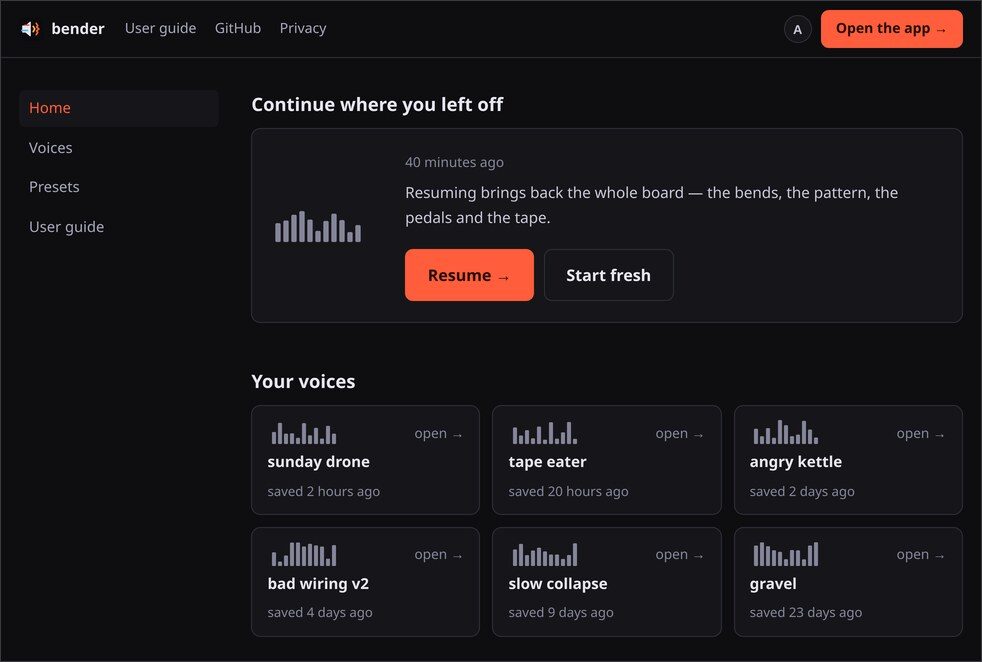
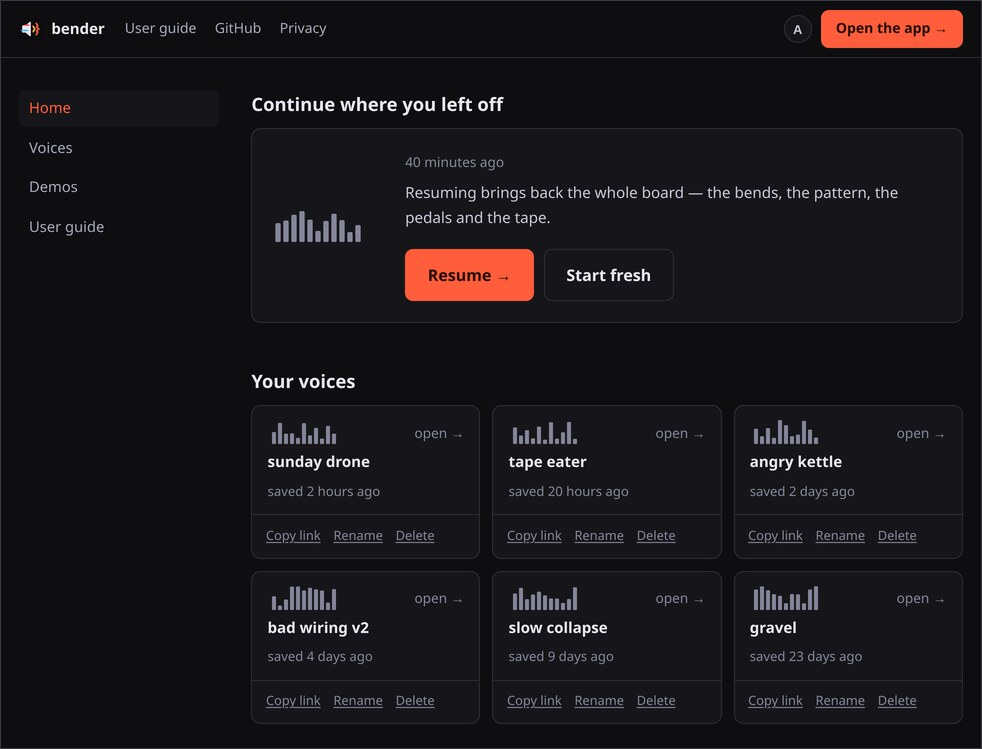
feat(home): copy, rename and delete a voice from the home page
Each voice card has a row under it: copy link, rename in place, and delete
after one question. Rename and delete go through editVoices, and renameVoice
refuses a name another voice already has. dashboard.jpg is retaken with the
rows, which makes it taller.

Ported from videoskillet; the shared regions match.

diff --git a/src/home/main.ts b/src/home/main.ts
@@ -11,6 +11,7 @@
 // string somebody typed, and `innerHTML` anywhere here would hand it to the
 // parser.
 import {
+  editVoices,
   fetchHome,
   signIn,
   signOut,
@@ -21,6 +22,12 @@ import {
   type HomeDoc,
 } from '../ui/cloud'
 import { sinceWords } from '../ui/relativeTime'
+import {
+  VOICE_NAME_MAX,
+  cleanVoiceName,
+  removeVoice,
+  renameVoice,
+} from '../ui/voiceModel'
 import { markFor } from './mark'
 import { appUrl, boardUrl, guideUrl, siteRoot } from './paths'
 
@@ -78,6 +85,144 @@ function card(query: string, name: string, says: string): HTMLElement {
   item.append(link)
   return item
 }
+
+// The link a copied card carries, whole, so it opens from a chat window.
+const shareLink = (query: string) =>
+  new URL(boardUrl(query), location.href).href
+
+// A voice has nothing stored beside it to clean up.
+const deleted = (_user: CloudUser, _voice: SavedVoice) => undefined
+
+// CROSS_REPO_SYNC(home-card-actions)
+// What a card's verbs need: who is signed in, and how to draw the home again
+// from the list an edit left on the account.
+interface CardEdits {
+  user: CloudUser
+  redraw: (voices: SavedVoice[]) => void
+}
+
+// Copy link, rename and delete, in a row under a saved card. The row sits
+// beside the card's link, since a button inside an <a> follows the link. A
+// rename or a delete runs through the same transaction the app saves with, and
+// the home redraws from the list that landed.
+function cardActions(voice: SavedVoice, edits: CardEdits): HTMLElement {
+  const row = el('div', 'cardActions')
+  const status = el('span', 'cardStatus')
+  status.setAttribute('role', 'status')
+
+  const act = (label: string, run: () => void) => {
+    const button = el('button', 'cardAct', label)
+    button.type = 'button'
+    button.addEventListener('click', run)
+    return button
+  }
+  const show = (...nodes: HTMLElement[]) => {
+    row.replaceChildren(...nodes, status)
+  }
+  const busy = () => {
+    for (const node of row.querySelectorAll<
+      HTMLButtonElement | HTMLInputElement
+    >('button, input'))
+      node.disabled = true
+  }
+
+  const idle = (focus?: string) => {
+    const buttons = [
+      act('Copy link', copy),
+      act('Rename', () => {
+        rename(voice.name)
+      }),
+      act('Delete', askDelete),
+    ]
+    show(...buttons)
+    buttons.find(button => button.textContent === focus)?.focus()
+  }
+
+  function copy() {
+    const link = shareLink(voice.query)
+    // An insecure origin has no clipboard at all, and reading it throws before
+    // there is a promise to reject.
+    Promise.resolve()
+      .then(() => navigator.clipboard.writeText(link))
+      .then(
+        () => {
+          status.textContent = 'Link copied'
+        },
+        () => {
+          status.textContent = 'Could not copy the link'
+        },
+      )
+  }
+
+  function rename(start: string) {
+    const input = el('input', 'cardRename')
+    input.value = start
+    input.maxLength = VOICE_NAME_MAX
+    input.setAttribute('aria-label', `New name for ${voice.name}`)
+    const save = () => {
+      const to = cleanVoiceName(input.value)
+      if (to === '' || to === voice.name) {
+        idle('Rename')
+        return
+      }
+      busy()
+      editVoices(edits.user.uid, list =>
+        renameVoice(list, voice.name, to),
+      ).then(
+        next => {
+          if (next.some(p => p.name === voice.name)) {
+            rename(to)
+            status.textContent = `Another one is already called “${to}”`
+          } else edits.redraw(next)
+        },
+        () => {
+          rename(to)
+          status.textContent = 'Could not rename. Check the connection.'
+        },
+      )
+    }
+    input.addEventListener('keydown', event => {
+      if (event.key === 'Enter') save()
+      if (event.key === 'Escape') idle('Rename')
+    })
+    status.textContent = ''
+    show(
+      input,
+      act('Save', save),
+      act('Cancel', () => idle('Rename')),
+    )
+    input.select()
+  }
+
+  function askDelete() {
+    status.textContent = ''
+    const keep = act('Keep', () => idle('Delete'))
+    show(
+      el('span', 'cardAsk', `Delete “${voice.name}”?`),
+      act('Delete', remove),
+      keep,
+    )
+    keep.focus()
+  }
+
+  function remove() {
+    busy()
+    editVoices(edits.user.uid, list => removeVoice(list, voice.name)).then(
+      next => {
+        deleted(edits.user, voice)
+        edits.redraw(next)
+      },
+      () => {
+        idle('Delete')
+        status.textContent = 'Could not delete. Check the connection.'
+      },
+    )
+  }
+
+  idle()
+  return row
+}
+// CROSS_REPO_SYNC_END(home-card-actions)
 
 function section(id: string, heading: string, sub?: string): HTMLElement {
   const box = el('section', 'homeSec')
@@ -156,7 +301,11 @@ function failedSection(retry: () => void): HTMLElement {
   return box
 }
 
-function voicesSection(doc: HomeDoc, now: number): HTMLElement {
+function voicesSection(
+  doc: HomeDoc,
+  now: number,
+  edits: CardEdits,
+): HTMLElement {
   const box = section('voices', 'Your voices')
   if (doc.voices.length === 0) {
     box.append(emptyVoices())
@@ -174,7 +323,9 @@ function voicesSection(doc: HomeDoc, now: number): HTMLElement {
       voice.savedAt === undefined
         ? 'saved'
         : `saved ${sinceWords(voice.savedAt, now)}`
-    grid.append(card(voice.query, voice.name, says))
+    const item = card(voice.query, voice.name, says)
+    item.append(cardActions(voice, edits))
+    grid.append(item)
   }
   box.append(grid)
   return box
@@ -285,8 +436,14 @@ function showFrame(user: CloudUser, sections: HTMLElement[]) {
 }
 
 export function showHome(user: CloudUser, doc: HomeDoc, now = Date.now()) {
+  const edits: CardEdits = {
+    user,
+    redraw: voices => {
+      showHome(user, { ...doc, voices })
+    },
+  }
   const resume = resumeSection(doc, now)
-  const voices = voicesSection(doc, now)
+  const voices = voicesSection(doc, now, edits)
   showFrame(user, resume === undefined ? [voices] : [resume, voices])
 }
 

diff --git a/src/ui/voiceModel.test.ts b/src/ui/voiceModel.test.ts
@@ -5,6 +5,7 @@ import {
   readCurrent,
   readVoices,
   removeVoice,
+  renameVoice,
   suggestVoiceName,
   upsertVoice,
   VOICE_NAME_MAX,
@@ -72,4 +73,18 @@ test('a stored session needs both halves', () => {
 test('delete takes the one name', () => {
   const list = upsertVoice(upsertVoice([], 'a', 'p=1'), 'b', 'p=2')
   expect(removeVoice(list, 'a').map(v => v.name)).toEqual(['b'])
+})
+
+test('rename keeps the place, the id and the stamp', () => {
+  const list = upsertVoice(upsertVoice([], 'a', 'p=1', 10), 'b', 'p=2')
+  const renamed = renameVoice(list, 'a', '  dying   toy ')
+  expect(renamed.map(v => v.name)).toEqual(['dying toy', 'b'])
+  expect(renamed[0]!.id).toBe(list[0]!.id)
+  expect(renamed[0]!.savedAt).toBe(10)
+})
+
+test('rename refuses a name in use, or no name', () => {
+  const list = upsertVoice(upsertVoice([], 'a', 'p=1'), 'b', 'p=2')
+  expect(renameVoice(list, 'a', 'b')).toEqual(list)
+  expect(renameVoice(list, 'a', '  ')).toEqual(list)
 })

diff --git a/src/ui/voiceModel.ts b/src/ui/voiceModel.ts
@@ -107,6 +107,23 @@ export const removeVoice = (
   name: string,
 ): SavedVoice[] => voices.filter(item => item.name !== name)
 
+// Rename in place: the entry keeps its position, its id and its stamps. A name
+// another entry already uses leaves the list as it was, so a rename can never
+// overwrite anything; the caller tells the two outcomes apart by whether `from`
+// is still in the list.
+export function renameVoice(
+  voices: readonly SavedVoice[],
+  from: string,
+  to: string,
+): SavedVoice[] {
+  const clean = cleanVoiceName(to)
+  if (clean === '' || voices.some(item => item.name === clean))
+    return [...voices]
+  return voices.map(item =>
+    item.name === from ? { ...item, name: clean } : item,
+  )
+}
+
 // What the name box offers, so saving is type-nothing-and-press-save. `base` is
 // whatever the board is already called — the preset it matches, or the voice
 // last saved — and the counter only appears once that name is taken.

diff --git a/src/ui/whySignIn.ts b/src/ui/whySignIn.ts
@@ -23,7 +23,7 @@ export const HOW = 'It’s a Google login, and the boards are stored in Firebase
     and `pnpm dash` fails if the shot it takes comes out any other size. */
 export const SHOT = 'dashboard.jpg'
 export const SHOT_W = 982
-export const SHOT_H = 662
+export const SHOT_H = 749
 
 export const SHOT_ALT =
   'The home page signed in: a card for the board you had open last, and six saved boards in a grid with the day each one was saved'
